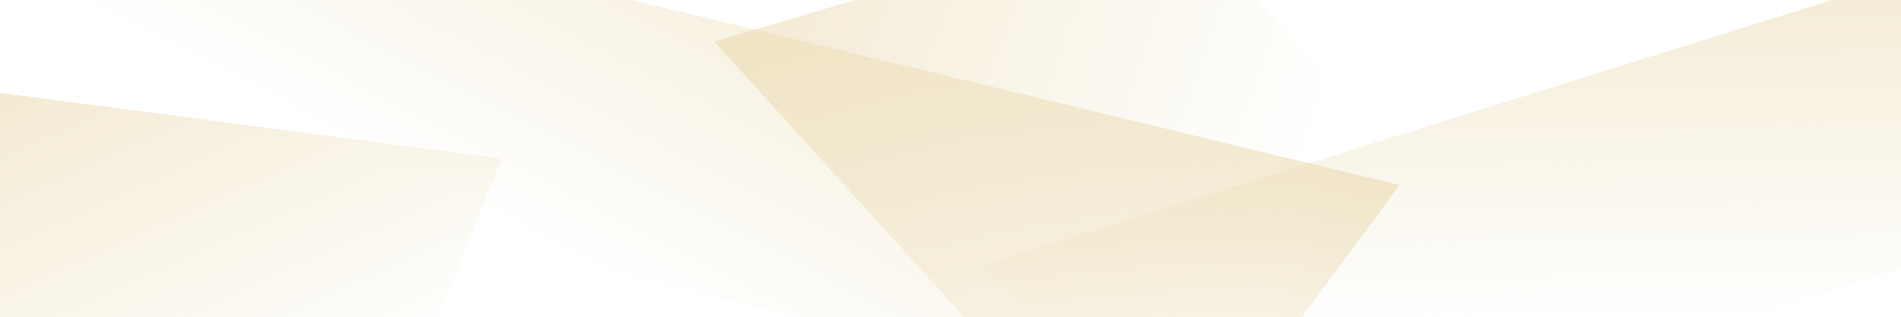
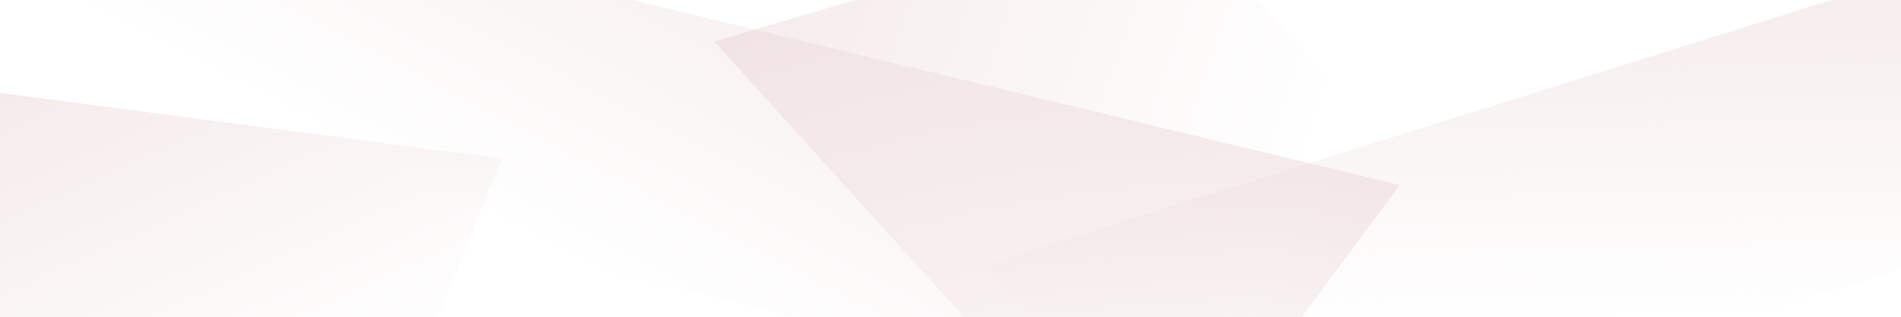
added background colors

Changed region(s): [[0.3724, 0.0852, 0.6207, 0.5678], [0.5897, 0.511, 0.7449, 0.7382]]

diff --git a/src/pages/HeroSection/Header.jsx b/src/pages/HeroSection/Header.jsx
@@ -9,8 +9,7 @@ import vendorFrame from "../../assets/Images/vendorFrame.png";
 import marketerFrame from "../../assets/Images/marketFrame.png";
 import { IoMdHome } from "react-icons/io";
 import { useSelector } from "react-redux";
-import { useLocation } from "react-router-dom";
-
+import { LuLocateFixed } from "react-icons/lu";
 const NavBar = () => {
   const [isModalOpen, setIsModalOpen] = useState(false);
   // const location = useLocation();
@@ -20,6 +19,10 @@ const NavBar = () => {
   };
   const pageType = useSelector((state) => state.pageType.type);
   const currentLink = useSelector((state) => state.pageType.currentLink);
+  const bannerTypeClass =
+    currentLink !== "Home"
+      ? `faq_background ${pageType}`
+      : `home_banner ${pageType}`;
   let headerText = {
     title: "Get Discounts & Offers",
     subtitle: "on Everything",
@@ -51,13 +54,14 @@ const NavBar = () => {
         endText: "on Everything",
       };
   }
-  // const isTrue = location.pathname === "/";
+  const isTrue = location.pathname === "/";
   return (
     <>
       <div
-        className={` ${
-          currentLink !== "Home" ? "faq_background" : "home_banner"
-        }`}
+        // className={` ${
+        //   currentLink !== "Home" ? "faq_background" : "home_banner"
+        // }`}
+        className={bannerTypeClass}
       >
         <nav className="header">
           <div className="content-row">
@@ -72,6 +76,7 @@ const NavBar = () => {
               </div>
 
               <button className="locate-button" onClick={handleLocateMe}>
+                <LuLocateFixed fontSize={20} />
                 Locate Me
               </button>
             </div>
@@ -82,7 +87,7 @@ const NavBar = () => {
           </div>
         </nav>
 
-        {currentLink === "Home" ? (
+        {isTrue ? (
           <section>
             <div className="header_content">
               <h2>

diff --git a/src/pages/HeroSection/styles/Header.scss b/src/pages/HeroSection/styles/Header.scss
@@ -45,6 +45,9 @@
     }
   
     .locate-button {
+      display: flex;
+  align-items: center;        
+  gap: 8px;  
       background-color: #ffffff;
        color: $primary-color;
        padding: 10px;
@@ -89,8 +92,19 @@
 
   //
   .home_banner {
-    background-color: $primary-bg; // From your variables file
+    // background-color: $primary-bg; // From your variables file
     padding-bottom: 1rem;
+    &.user {
+      background-color: $primary-bg; // #ECCAA3
+    }
+  
+    &.vendor {
+      background-color: $secondary-bg; // #E3FFD6
+    }
+  
+    &.marketer {
+      background-color: $third-bg; // #FFEBB8
+    }
   
     .header_content {
       display: flex;
@@ -238,13 +252,31 @@
   }
   
   .faq_background {
-    background: 
-    linear-gradient(rgba(228, 206, 150, 0.7), rgba(228, 206, 150, 0.7)),
-    url("../../../assets/Images/userBanner.png") center/cover no-repeat;
+    // background: 
+    // linear-gradient(rgba(228, 206, 150, 0.7), rgba(228, 206, 150, 0.7)),
+    // url("../../../assets/Images/userBanner.png") center/cover no-repeat;
     background-size: cover;
     background-position: center;
     background-repeat: no-repeat;
     padding-bottom: 1rem;
+    &.user {
+      background: 
+        linear-gradient(rgba($primary-bg, 0.7), rgba($primary-bg, 0.7)),
+        url("../../../assets/Images/userBanner.png") center/cover no-repeat;
+    }
+  
+    &.vendor {
+      background: 
+        linear-gradient(rgba($secondary-bg, 0.7), rgba($secondary-bg, 0.7)),
+        url("../../../assets/Images/userBanner.png") center/cover no-repeat;
+    }
+  
+    &.marketer {
+      background: 
+        linear-gradient(rgba($third-bg, 0.7), rgba($third-bg, 0.7)),
+        url("../../../assets/Images/userBanner.png") center/cover no-repeat;
+    }
+  
     .header_content {
       display: flex;
       flex-direction: column;
